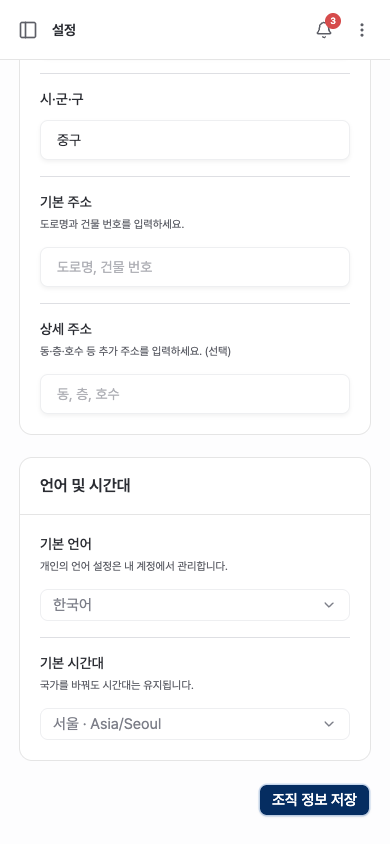
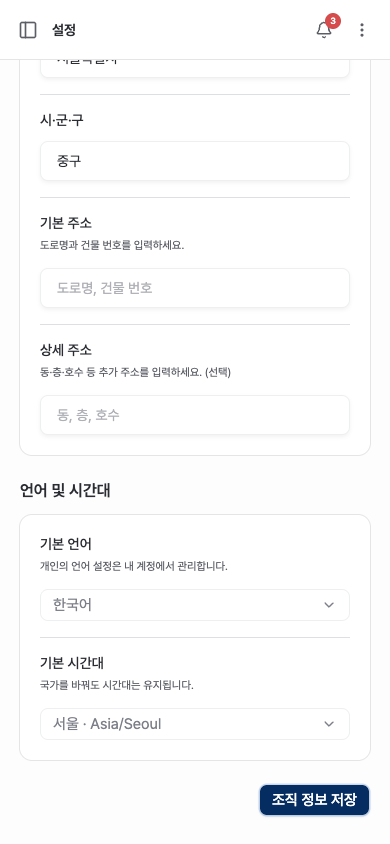
style: place organization section titles above cards

Changed region(s): [[0.0923, 0.0616, 0.5846, 0.4929], [0.0308, 0.5545, 0.3385, 0.6161], [0.9231, 0.5853, 0.9538, 0.6161]]

diff --git a/share/settings/page.tsx b/share/settings/page.tsx
@@ -26,7 +26,7 @@ import { SidebarProfileMenu } from "@shared/components/sidebar-profile-menu"
 import { WorkspaceSwitcher } from "@shared/components/workspace-switcher"
 import { Badge } from "@shared/components/ui/badge"
 import { Button } from "@shared/components/ui/button"
-import { Card, CardContent, CardHeader } from "@shared/components/ui/card"
+import { Card, CardContent } from "@shared/components/ui/card"
 import { Checkbox } from "@shared/components/ui/checkbox"
 import { Input } from "@shared/components/ui/input"
 import {
@@ -343,11 +343,9 @@ function AccountPage() {
 
 function OrganizationSection({ title, id, children }: { title: string; id: string; children: ReactNode }) {
   return (
-    <section aria-labelledby={id}>
+    <section aria-labelledby={id} className="space-y-3">
+      <h2 id={id} className="text-base font-semibold">{title}</h2>
       <Card className="shadow-none">
-        <CardHeader className="border-b px-5 py-4 sm:px-6">
-          <h2 id={id} className="text-base font-semibold">{title}</h2>
-        </CardHeader>
         <CardContent className="p-5 sm:p-6">{children}</CardContent>
       </Card>
     </section>
